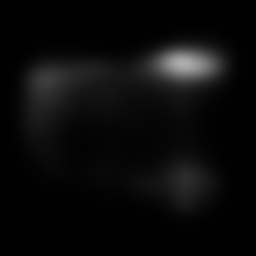
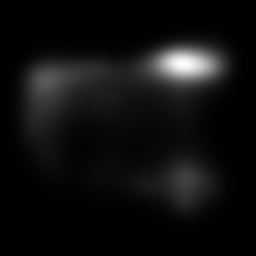
add heatmap

Changed region(s): [[0.5625, 0.1562, 0.875, 0.3438], [0.125, 0.2812, 0.25, 0.375]]

diff --git a/SimpleNet/test.py b/SimpleNet/test.py
@@ -1,5 +1,19 @@
+import cv2
+import numpy as np
+from utils import *
+from tqdm import tqdm
+from loss import *
+from dataloader import TestLoader, SaliconDataset
+from scipy.stats import multivariate_normal
+import torch.nn.functional as F
+import torch.nn.init as init
+from torch.utils.data import DataLoader
+from PIL import Image
+from torchvision import transforms, utils
+import matplotlib.pyplot as plt
 import argparse
-import glob, os
+import glob
+import os
 import torch
 import sys
 import time
@@ -9,31 +23,20 @@ from torch.distributions.multivariate_normal import MultivariateNormal as Norm
 from torch.autograd import Variable
 import matplotlib
 matplotlib.use('Agg')
-import matplotlib.pyplot as plt
-from torchvision import transforms, utils
-from PIL import Image
-from torch.utils.data import DataLoader
-import numpy as np, cv2
-import torch
-import torch.nn as nn
-import torch.nn.init as init
-import torch.nn.functional as F
-from scipy.stats import multivariate_normal
-from dataloader import TestLoader, SaliconDataset
-from loss import *
-from tqdm import tqdm
-from utils import *
 
 parser = argparse.ArgumentParser()
 
-parser.add_argument('--val_img_dir',default="../images/", type=str)
-parser.add_argument('--model_val_path',default="../saved_models/salicon_pnas.pt", type=str)
-parser.add_argument('--no_workers',default=4, type=int)
-parser.add_argument('--enc_model',default="pnas", type=str)
-parser.add_argument('--results_dir',default="../results/", type=str)
-parser.add_argument('--validate',default=0, type=int)
-parser.add_argument('--save_results',default=1, type=int)
-parser.add_argument('--dataset_dir',default="/home/samyak/old_saliency/saliency/SALICON_NEW/", type=str)
+parser.add_argument('--val_img_dir', default="../images/", type=str)
+parser.add_argument('--model_val_path',
+                    default="../saved_models/salicon_pnas.pt", type=str)
+parser.add_argument('--no_workers', default=4, type=int)
+parser.add_argument('--enc_model', default="pnas", type=str)
+parser.add_argument('--results_dir', default="../results/", type=str)
+parser.add_argument('--heatmap_dir', default="../heatmap_results/", type=str)
+parser.add_argument('--validate', default=0, type=int)
+parser.add_argument('--save_results', default=1, type=int)
+parser.add_argument(
+    '--dataset_dir', default="/home/samyak/old_saliency/saliency/SALICON_NEW/", type=str)
 
 args = parser.parse_args()
 
@@ -54,7 +57,7 @@ elif args.enc_model == "resnet":
     print("ResNet Model")
     from model import ResNetModel
     model = ResNetModel()
-    
+
 elif args.enc_model == "vgg":
     print("VGG Model")
     from model import VGGModel
@@ -65,7 +68,7 @@ elif args.enc_model == "mobilenet":
     from model import MobileNetV2
     model = MobileNetV2()
 
-if args.enc_model!="mobilenet":
+if args.enc_model != "mobilenet":
     model = nn.DataParallel(model)
 model.load_state_dict(torch.load(args.model_val_path))
 
@@ -73,7 +76,9 @@ model = model.to(device)
 
 val_img_ids = os.listdir(args.val_img_dir)
 val_dataset = TestLoader(args.val_img_dir, val_img_ids)
-vis_loader = torch.utils.data.DataLoader(val_dataset, batch_size=1, shuffle=False, num_workers=args.no_workers)
+vis_loader = torch.utils.data.DataLoader(
+    val_dataset, batch_size=1, shuffle=False, num_workers=args.no_workers)
+
 
 def validate(model, loader, device, args):
     model.eval()
@@ -83,37 +88,41 @@ def validate(model, loader, device, args):
     kldiv_loss = AverageMeter()
     nss_loss = AverageMeter()
     sim_loss = AverageMeter()
-    
+
     for (img, gt, fixations) in tqdm(loader):
         img = img.to(device)
         gt = gt.to(device)
         fixations = fixations.to(device)
-        
+
         pred_map = model(img)
 
         # Blurring
         blur_map = pred_map.cpu().squeeze(0).clone().numpy()
         blur_map = blur(blur_map).unsqueeze(0).to(device)
-        
-        cc_loss.update(cc(blur_map, gt))    
-        kldiv_loss.update(kldiv(blur_map, gt))    
-        nss_loss.update(nss(blur_map, gt))    
-        sim_loss.update(similarity(blur_map, gt))    
 
-    print('CC : {:.5f}, KLDIV : {:.5f}, NSS : {:.5f}, SIM : {:.5f}  time:{:3f} minutes'.format(cc_loss.avg, kldiv_loss.avg, nss_loss.avg, sim_loss.avg, (time.time()-tic)/60))
+        cc_loss.update(cc(blur_map, gt))
+        kldiv_loss.update(kldiv(blur_map, gt))
+        nss_loss.update(nss(blur_map, gt))
+        sim_loss.update(similarity(blur_map, gt))
+
+    print('CC : {:.5f}, KLDIV : {:.5f}, NSS : {:.5f}, SIM : {:.5f}  time:{:3f} minutes'.format(
+        cc_loss.avg, kldiv_loss.avg, nss_loss.avg, sim_loss.avg, (time.time()-tic)/60))
     sys.stdout.flush()
-    
+
     return cc_loss.avg
 
-if args.validate:
-	val_img_dir = args.dataset_dir + "images/val/"
-	val_gt_dir = args.dataset_dir + "maps/val/"
-	val_fix_dir = args.dataset_dir + "fixations/fixations/"
 
-	val_img_ids = [nm.split(".")[0] for nm in os.listdir(val_img_dir)]
-	val_dataset = SaliconDataset(val_img_dir, val_gt_dir, val_fix_dir, val_img_ids)
-	val_loader = torch.utils.data.DataLoader(val_dataset, batch_size=1, shuffle=False, num_workers=args.no_workers)
-	with torch.no_grad():
-		validate(model, val_loader, device, args)
+if args.validate:
+    val_img_dir = args.dataset_dir + "images/val/"
+    val_gt_dir = args.dataset_dir + "maps/val/"
+    val_fix_dir = args.dataset_dir + "fixations/fixations/"
+
+    val_img_ids = [nm.split(".")[0] for nm in os.listdir(val_img_dir)]
+    val_dataset = SaliconDataset(
+        val_img_dir, val_gt_dir, val_fix_dir, val_img_ids)
+    val_loader = torch.utils.data.DataLoader(
+        val_dataset, batch_size=1, shuffle=False, num_workers=args.no_workers)
+    with torch.no_grad():
+        validate(model, val_loader, device, args)
 if args.save_results:
-	visualize_model(model, vis_loader, device, args)
+    visualize_model(model, vis_loader, device, args)

diff --git a/SimpleNet/utils.py b/SimpleNet/utils.py
@@ -1,4 +1,5 @@
-import cv2, os
+import cv2
+import os
 import torch
 from os.path import join
 import matplotlib.pyplot as plt
@@ -7,16 +8,18 @@ import numpy as np
 from tqdm import tqdm
 from PIL import Image
 
+
 def blur(img):
     k_size = 11
-    bl = cv2.GaussianBlur(img,(k_size,k_size),0)
+    bl = cv2.GaussianBlur(img, (k_size, k_size), 0)
     return torch.FloatTensor(bl)
+
 
 def plot(pred, gt, args, idx):
     pred_npimg = utils.make_grid(pred.cpu()).numpy()
     gt_npimg = utils.make_grid(gt.cpu()).numpy()
 
-    plt.figure(figsize=(10,10))
+    plt.figure(figsize=(10, 10))
     plt.subplot(121)
     plt.title("Original")
     plt.imshow(np.transpose(gt_npimg, (1, 2, 0)))
@@ -25,38 +28,55 @@ def plot(pred, gt, args, idx):
     plt.title("Predicted")
     plt.imshow(np.transpose(pred_npimg, (1, 2, 0)))
 
-
     plt.savefig(args.results_dir + '{}_{}.png'.format(epoch, idx+1))
+
 
 def visualize_model(model, loader, device, args):
     with torch.no_grad():
         model.eval()
         os.makedirs(args.results_dir, exist_ok=True)
-        
+
         for (img, img_id, sz) in tqdm(loader):
             img = img.to(device)
-            
+
             pred_map = model(img)
             pred_map = pred_map.cpu().squeeze(0).numpy()
             pred_map = cv2.resize(pred_map, (sz[0], sz[1]))
-            
+
             pred_map = torch.FloatTensor(blur(pred_map))
-            img_save(pred_map, join(args.results_dir, img_id[0]), normalize=True)
+            img_save(pred_map, join(
+                args.results_dir, img_id[0]), normalize=True)
+
+            heat_map = im2heat(join(args.results_dir, img_id[0]), join(
+                args.val_img_dir, img_id[0]))
+
+            im = Image.fromarray(heat_map)
+            exten = join(args.heatmap_dir, img_id[0]).split('.')[-1]
+            if exten == "png":
+                im.save(join(args.heatmap_dir,
+                             img_id[0]), format=format, compress_level=0)
+            else:
+                # for jpg
+                im.save(join(args.heatmap_dir,
+                             img_id[0]), format=format, quality=100)
+
 
 def img_save(tensor, fp, nrow=8, padding=2,
-               normalize=False, range=None, scale_each=False, pad_value=0, format=None):
+             normalize=False, range=None, scale_each=False, pad_value=0, format=None):
     grid = utils.make_grid(tensor, nrow=nrow, padding=padding, pad_value=pad_value,
-                     normalize=normalize, range=range, scale_each=scale_each)
+                           normalize=normalize, range=range, scale_each=scale_each)
 
     ''' Add 0.5 after unnormalizing to [0, 255] to round to nearest integer '''
-    
-    ndarr = torch.round(grid.mul(255).add_(0.5).clamp_(0, 255).permute(1, 2, 0)).to('cpu', torch.uint8).numpy()
+
+    ndarr = torch.round(grid.mul(255).add_(0.5).clamp_(
+        0, 255).permute(1, 2, 0)).to('cpu', torch.uint8).numpy()
     im = Image.fromarray(ndarr)
     exten = fp.split('.')[-1]
-    if exten=="png":
+    if exten == "png":
         im.save(fp, format=format, compress_level=0)
     else:
-        im.save(fp, format=format, quality=100) #for jpg
+        im.save(fp, format=format, quality=100)  # for jpg
+
 
 class AverageMeter(object):
 
@@ -72,18 +92,23 @@ class AverageMeter(object):
         self.sum = 0
         self.count = 0
 
-    def update(self, val, n = 1):
+    def update(self, val, n=1):
         self.val = val
         self.sum += val*n
         self.count += n
         self.avg = self.sum / self.count
 
-def im2heat(pred_dir, a, gt, exten='.png'):
-    pred_nm = pred_dir + a + exten
-    pred = cv2.imread(pred_nm, 0)
+
+def convert(img):
+    return cv2.cvtColor(img, cv2.COLOR_BGR2RGB)
+
+
+def im2heat(map_path, rgb_image_path):
+    gt = cv2.imread(rgb_image_path)
+    gt = convert(gt)
+    pred = cv2.imread(map_path, 0)
     heatmap_img = cv2.applyColorMap(pred, cv2.COLORMAP_JET)
     heatmap_img = convert(heatmap_img)
-    pred = np.stack((pred, pred, pred),2).astype('float32')
+    pred = np.stack((pred, pred, pred), 2).astype('float32')
     pred = pred / 255.0
-    
     return np.uint8(pred * heatmap_img + (1.0-pred) * gt)
